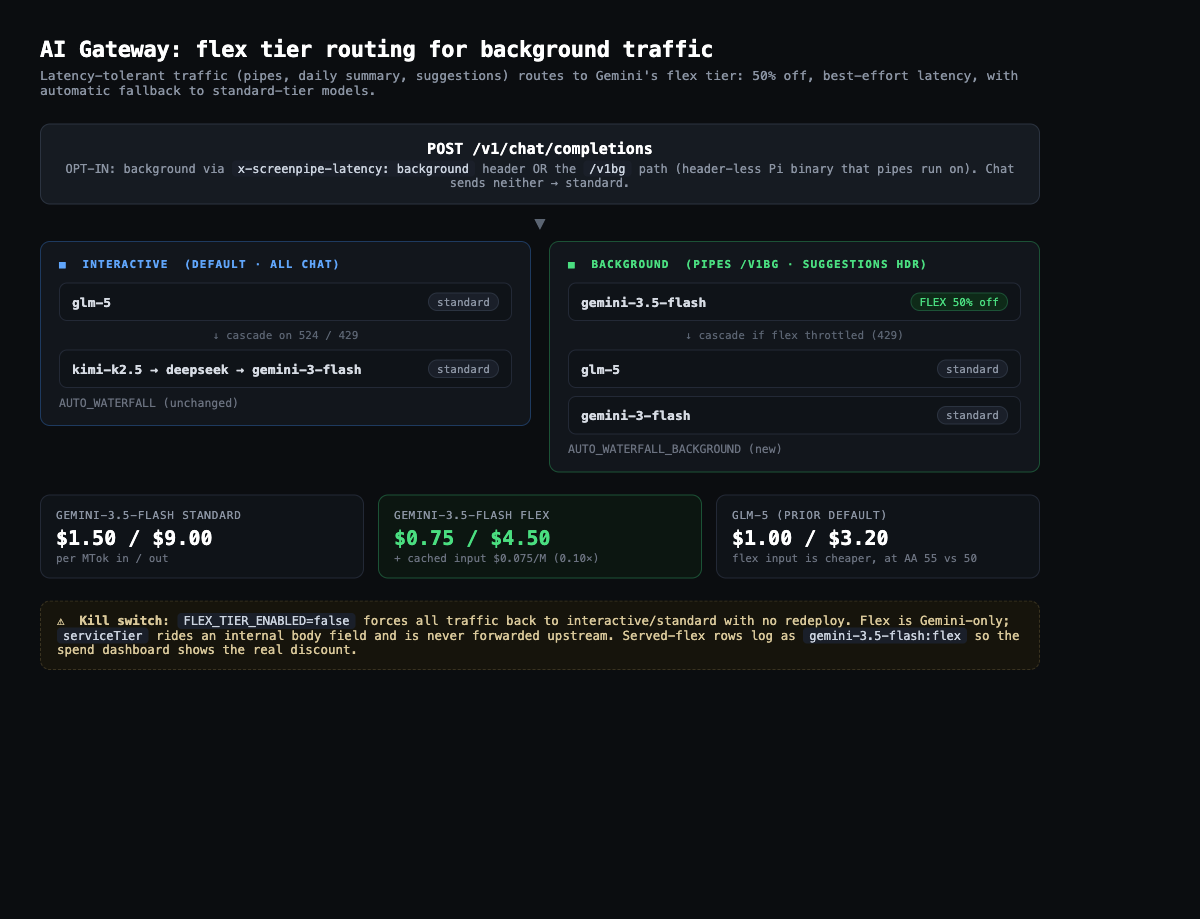
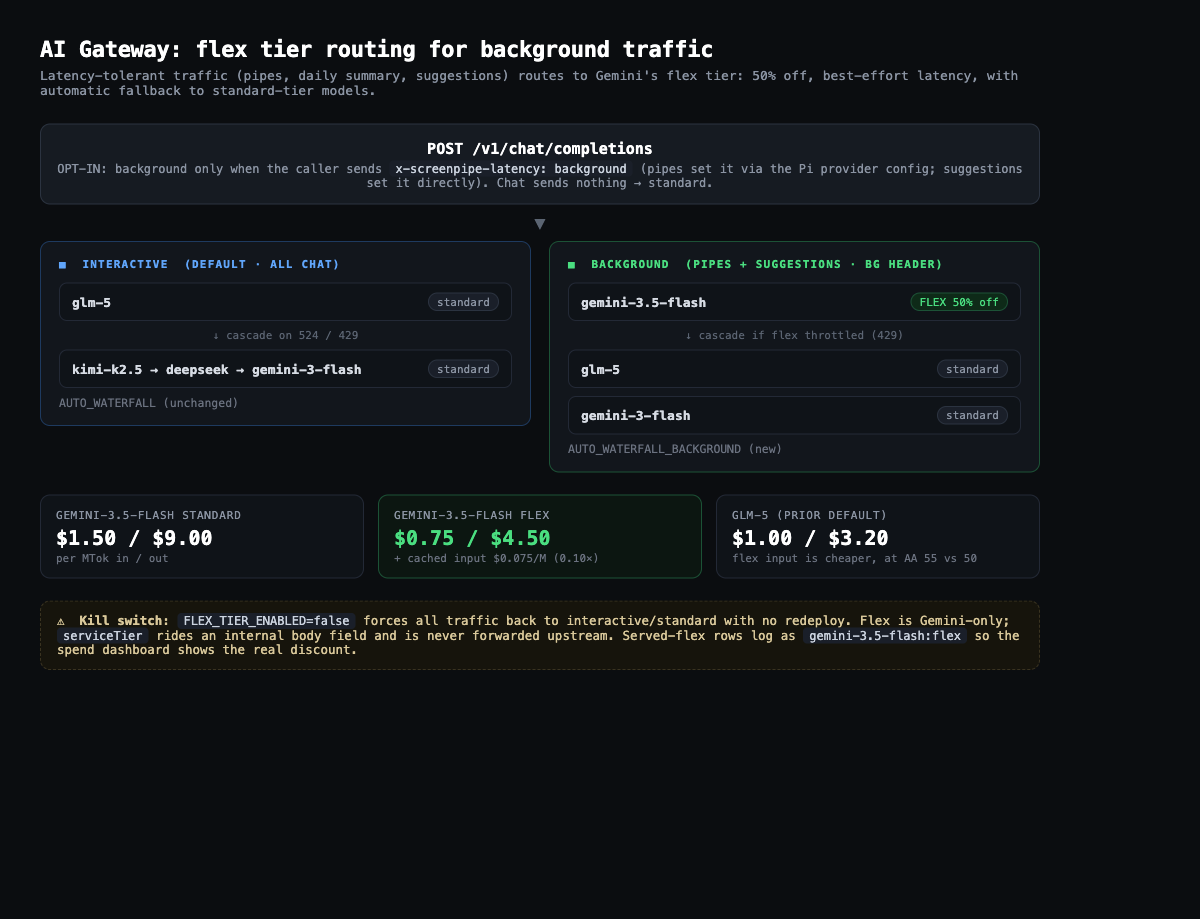
refactor(ai-gateway): pipes flex via Pi provider header, drop the /v1bg path
The Pi binary DOES support custom per-provider headers (pi-coding-agent
model-registry merges providerConfig.headers into every request), so pipes can
send x-screenpipe-latency: background directly. ensure_pi_config now adds it to
the screenpipe provider — one mechanism (the header) for both pipes and
suggestions, no special gateway endpoint.

Why this is better than the /v1bg path it replaces:
- No deploy-order coupling. An old gateway ignores the unknown header and
  serves standard (graceful); the /v1bg path would have 404'd pipe calls until
  the worker was deployed.
- Simpler: drops the gateway prefix-strip + pathBackground arg, the
  SCREENPIPE_API_URL_BG constant, and the PiExecutor base-URL override.

Gateway is back to header-only (resolveLatencyClass). suggestions.rs unchanged
(already sends the header). cargo check -p screenpipe-core clean; bun test 413.

diff --git a/packages/ai-gateway/src/utils/latency.ts b/packages/ai-gateway/src/utils/latency.ts
@@ -11,29 +11,23 @@ export type LatencyClass = 'interactive' | 'background';
  * (latency-tolerant: pipes, daily summary, suggestions). Background traffic is
  * routed to the cheaper Vertex flex tier (see handlers/chat tryModel).
  *
- * Flex is STRICTLY OPT-IN: the caller must send `x-screenpipe-latency: background`
- * (the pipe runtime / background desktop features do this). Everything else,
- * including all interactive chat, defaults to interactive/standard. We do NOT
- * infer background from `stream===false` — chat also makes non-streaming calls
- * (JSON mode, tool steps), and flexing those would add best-effort latency to a
- * user who is waiting. Order of precedence:
+ * Flex is STRICTLY OPT-IN: the caller must send `x-screenpipe-latency: background`.
+ * The pipe runtime sets it via the Pi provider config (Pi supports per-provider
+ * headers), and background desktop features set it on their request. Everything
+ * else, including all interactive chat, defaults to interactive/standard. We do
+ * NOT infer background from `stream===false` — chat also makes non-streaming
+ * calls (JSON mode, tool steps), and flexing those would add best-effort latency
+ * to a user who is waiting. Order of precedence:
  *   1. FLEX_TIER_ENABLED=false → always interactive (kill switch, no redeploy)
  *   2. x-screenpipe-latency header: 'background'|'flex' → background;
  *      'interactive'|'standard' → interactive
- *   3. pathBackground: the request came in on the /v1bg/* prefix — a header-less
- *      signal for clients that can't set headers (the Pi binary pipes run on).
- *   4. default → interactive (no signal = treat as user-facing)
+ *   3. default → interactive (no header = treat as user-facing)
  */
-export function resolveLatencyClass(
-	request: Request,
-	_body: RequestBody,
-	env: Env,
-	pathBackground = false,
-): LatencyClass {
+export function resolveLatencyClass(request: Request, _body: RequestBody, env: Env): LatencyClass {
 	if (String((env as any)?.FLEX_TIER_ENABLED ?? 'true').toLowerCase() === 'false') {
 		return 'interactive';
 	}
 	const hint = request.headers.get('x-screenpipe-latency')?.toLowerCase();
-	if (hint === 'background' || hint === 'flex' || pathBackground) return 'background';
+	if (hint === 'background' || hint === 'flex') return 'background';
 	return 'interactive';
 }

diff --git a/packages/ai-gateway/src/index.ts b/packages/ai-gateway/src/index.ts
@@ -28,14 +28,7 @@ export { RateLimiter };
 // Handler function for the worker
 async function handleRequest(request: Request, env: Env, ctx: ExecutionContext): Promise<Response> {
 	const url = new URL(request.url);
-	let path = url.pathname;
-
-	// Background tier path prefix. Header-less clients (the Pi binary that pipes
-	// run on) can't set x-screenpipe-latency, so background callers hit /v1bg/*.
-	// Strip the prefix to the normal route and force the background class via
-	// resolveLatencyClass(pathBackground) below. Cheaper, best-effort latency.
-	const isBackgroundPath = path.startsWith('/v1bg/');
-	if (isBackgroundPath) path = '/v1' + path.slice('/v1bg'.length);
+	const path = url.pathname;
 
 	// Early test endpoint - before any initialization
 	if (path === '/test') {
@@ -192,7 +185,7 @@ async function handleRequest(request: Request, env: Env, ctx: ExecutionContext):
 			}
 
 			// Route latency-tolerant (background) traffic to the cheaper flex tier.
-			const latency = resolveLatencyClass(request, body, env, isBackgroundPath);
+			const latency = resolveLatencyClass(request, body, env);
 
 			// Add credit info header if paid via credits
 			let response = await handleChatCompletions(body, env, latency);

diff --git a/packages/ai-gateway/src/test/flex-tier.unit.test.ts b/packages/ai-gateway/src/test/flex-tier.unit.test.ts
@@ -39,18 +39,9 @@ describe('resolveLatencyClass', () => {
 		expect(resolveLatencyClass(req({ 'x-screenpipe-latency': 'interactive' }), { ...BODY, stream: false }, {} as Env)).toBe('interactive');
 	});
 
-	it('routes to background on the /v1bg path signal (header-less pipe clients)', () => {
-		// pathBackground=true behaves like the header — for the Pi binary which
-		// cannot set custom headers, so pipes hit /v1bg/chat/completions instead.
-		expect(resolveLatencyClass(req(), { ...BODY }, {} as Env, true)).toBe('background');
-		// pathBackground=false (normal /v1) stays interactive
-		expect(resolveLatencyClass(req(), { ...BODY }, {} as Env, false)).toBe('interactive');
-	});
-
-	it('FLEX_TIER_ENABLED=false forces interactive (kill switch, overrides header AND path)', () => {
+	it('FLEX_TIER_ENABLED=false forces interactive (kill switch, overrides the header)', () => {
 		const env = { FLEX_TIER_ENABLED: 'false' } as unknown as Env;
 		expect(resolveLatencyClass(req({ 'x-screenpipe-latency': 'background' }), { ...BODY, stream: false }, env)).toBe('interactive');
-		expect(resolveLatencyClass(req(), { ...BODY }, env, true)).toBe('interactive');
 	});
 });
 

diff --git a/crates/screenpipe-core/src/agents/pi.rs b/crates/screenpipe-core/src/agents/pi.rs
@@ -20,16 +20,6 @@ const PI_AI_PACKAGE: &str = "@earendil-works/pi-ai@0.75.4";
 const PI_NAMESPACE_DIR: &str = "@earendil-works";
 pub const SCREENPIPE_API_URL: &str = "https://api.screenpipe.com/v1";
 
-/// Background tier base URL for the cloud gateway. Same worker as
-/// `SCREENPIPE_API_URL`, but the `/v1bg` prefix tells the gateway to serve the
-/// request on the cheaper, best-effort Vertex flex tier (it strips the prefix
-/// and forces the background latency class). The Pi binary can't set a custom
-/// header, so pipes signal "background" via this URL. PiExecutor defaults to it
-/// because the executor only ever runs pipes (scheduled / run-now), which are
-/// latency-tolerant by definition. Interactive agents must override with
-/// `with_api_url(SCREENPIPE_API_URL)`.
-pub const SCREENPIPE_API_URL_BG: &str = "https://api.screenpipe.com/v1bg";
-
 /// Bounded retries for provider rate limiting (HTTP 429) in streaming runs.
 const MAX_RATE_LIMIT_RETRIES: usize = 3;
 /// Fallback wait when the 429 payload carries no `reset_in` hint.
@@ -178,13 +168,10 @@ pub struct PiExecutor {
 }
 
 impl PiExecutor {
-    // PiExecutor only ever runs pipes (PipeManager: scheduled + run-now), which
-    // are latency-tolerant, so it defaults to the background/flex base URL. An
-    // interactive consumer must opt out via `with_api_url(SCREENPIPE_API_URL)`.
     pub fn new(user_token: Option<String>) -> Self {
         Self {
             user_token: Arc::new(ArcSwap::new(Arc::new(user_token))),
-            api_url: SCREENPIPE_API_URL_BG.to_string(),
+            api_url: SCREENPIPE_API_URL.to_string(),
             api_auth_key: None,
         }
     }
@@ -197,17 +184,9 @@ impl PiExecutor {
     pub fn with_shared_user_token(user_token: Arc<ArcSwap<Option<String>>>) -> Self {
         Self {
             user_token,
-            api_url: SCREENPIPE_API_URL_BG.to_string(),
+            api_url: SCREENPIPE_API_URL.to_string(),
             api_auth_key: None,
         }
-    }
-
-    /// Override the cloud base URL. Use `SCREENPIPE_API_URL` for an interactive
-    /// agent (standard tier); the constructors default to the background/flex
-    /// `SCREENPIPE_API_URL_BG` since the executor only runs pipes.
-    pub fn with_api_url(mut self, api_url: impl Into<String>) -> Self {
-        self.api_url = api_url.into();
-        self
     }
 
     /// Read the current cloud token. Returns an owned `Option<String>`.
@@ -797,11 +776,19 @@ impl PiExecutor {
                 .unwrap_or_else(|| "SCREENPIPE_API_KEY".to_string());
             let api_key_value = api_key_value.as_str();
             let models = screenpipe_cloud_models(api_url, user_token).await;
+            // PiExecutor only runs pipes (PipeManager: scheduled / run-now),
+            // which are latency-tolerant, so tag every cloud LLM call as
+            // background. The gateway then serves it on the cheaper, best-effort
+            // Vertex flex tier (resolveLatencyClass). Pi merges provider
+            // `headers` into each request (see pi-coding-agent model-registry),
+            // and an old gateway simply ignores the unknown header (→ standard),
+            // so there's no deploy-order coupling.
             let screenpipe_provider = json!({
                 "baseUrl": api_url,
                 "api": "openai-completions",
                 "apiKey": api_key_value,
                 "authHeader": true,
+                "headers": { "x-screenpipe-latency": "background" },
                 "models": models
             });
 

diff --git a/crates/screenpipe-core/src/pipes/mod.rs b/crates/screenpipe-core/src/pipes/mod.rs
@@ -16,7 +16,7 @@ pub mod preset_fallback;
 pub mod sync;
 
 use crate::agents::{
-    pi::{PiExecutor, SCREENPIPE_API_URL_BG},
+    pi::{PiExecutor, SCREENPIPE_API_URL},
     AgentExecutor, ExecutionHandle,
 };
 use anyhow::{anyhow, Result};
@@ -2156,7 +2156,7 @@ impl PipeManager {
             let cloud_token = executor.user_token();
             if let Err(e) = PiExecutor::ensure_pi_config(
                 cloud_token.as_deref(),
-                SCREENPIPE_API_URL_BG,
+                SCREENPIPE_API_URL,
                 run_provider.as_deref(),
                 Some(&run_model),
                 run_provider_url.as_deref(),
@@ -2658,7 +2658,7 @@ impl PipeManager {
             if config.agent == "pi" {
                 if let Err(e) = PiExecutor::ensure_pi_config(
                     None,
-                    SCREENPIPE_API_URL_BG,
+                    SCREENPIPE_API_URL,
                     run_provider.as_deref(),
                     Some(&run_model),
                     run_provider_url.as_deref(),
@@ -3712,7 +3712,7 @@ impl PipeManager {
                         let cloud_token = executor.user_token();
                         if let Err(e) = PiExecutor::ensure_pi_config(
                             cloud_token.as_deref(),
-                            SCREENPIPE_API_URL_BG,
+                            SCREENPIPE_API_URL,
                             provider.as_deref(),
                             Some(&model),
                             provider_url.as_deref(),